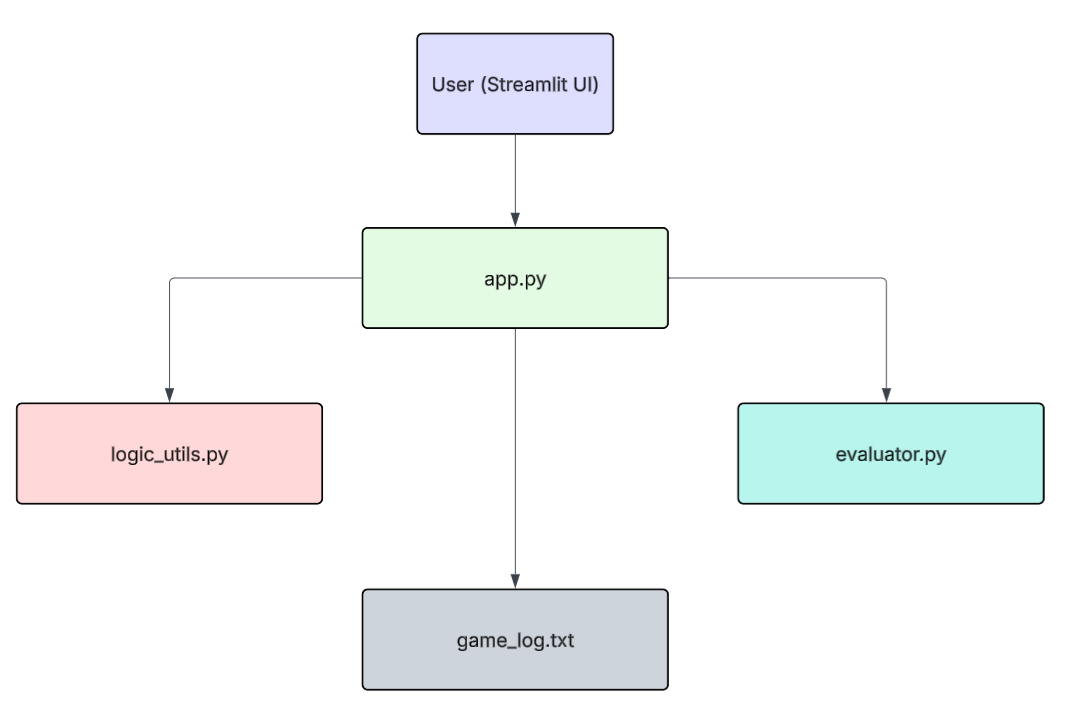
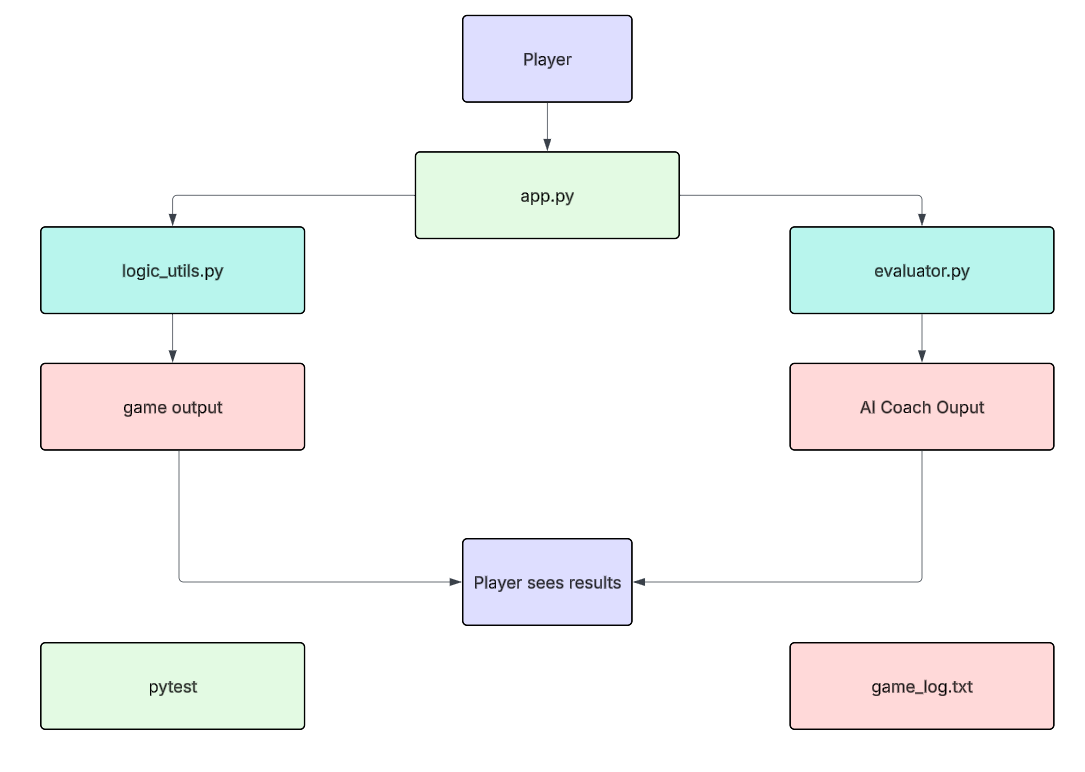
Changed system diagram and approach

diff --git a/README.md b/README.md
@@ -18,37 +18,7 @@ The goal is to demonstrate a complete applied AI system: a working application, 
  
 ---
  
-## Architecture Overview
- 
-```
-User (Streamlit UI)
-        │
-        ▼
-   app.py
-   │  - Handles UI, session state, game flow
-   │  - Calls logic_utils for guess checking and scoring
-   │  - Calls evaluator for AI tips and confidence score
-   │  - Writes all events to game_log.txt
-   │
-   ├──► logic_utils.py
-   │    - parse_guess()               ← validates input
-   │    - check_guess()               ← compares guess to secret
-   │    - update_score()              ← calculates score
-   │    - get_range_for_difficulty()  ← sets range per difficulty
-   │
-   └──► evaluator.py (rule-based AI, no API required)
-        - evaluate_guess_history()   ← detects pattern, returns tip
-        - evaluate_confidence()      ← scores strategy 0.0 to 1.0
- 
-   game_log.txt
-   (all guesses, outcomes, and AI tip requests logged here)
- 
-   tests/
-   ├── test_game_logic.py   (25 tests for logic_utils)
-   └── test_evaluator.py    (12 tests for evaluator)
-```
- 
-**Data flow:** The player types a guess → `app.py` validates it via `parse_guess` → compares it via `check_guess` → updates score via `update_score` → logs the result. When the player clicks "Get AI Strategy Tip", `evaluate_guess_history` runs the guess history through a series of pattern detection rules and returns a coaching tip. `evaluate_confidence` computes a local strategy score. Both results display instantly with no network call.
+## [Architecture Overview] (assets/systemDiagram.png)
  
 ---
  
